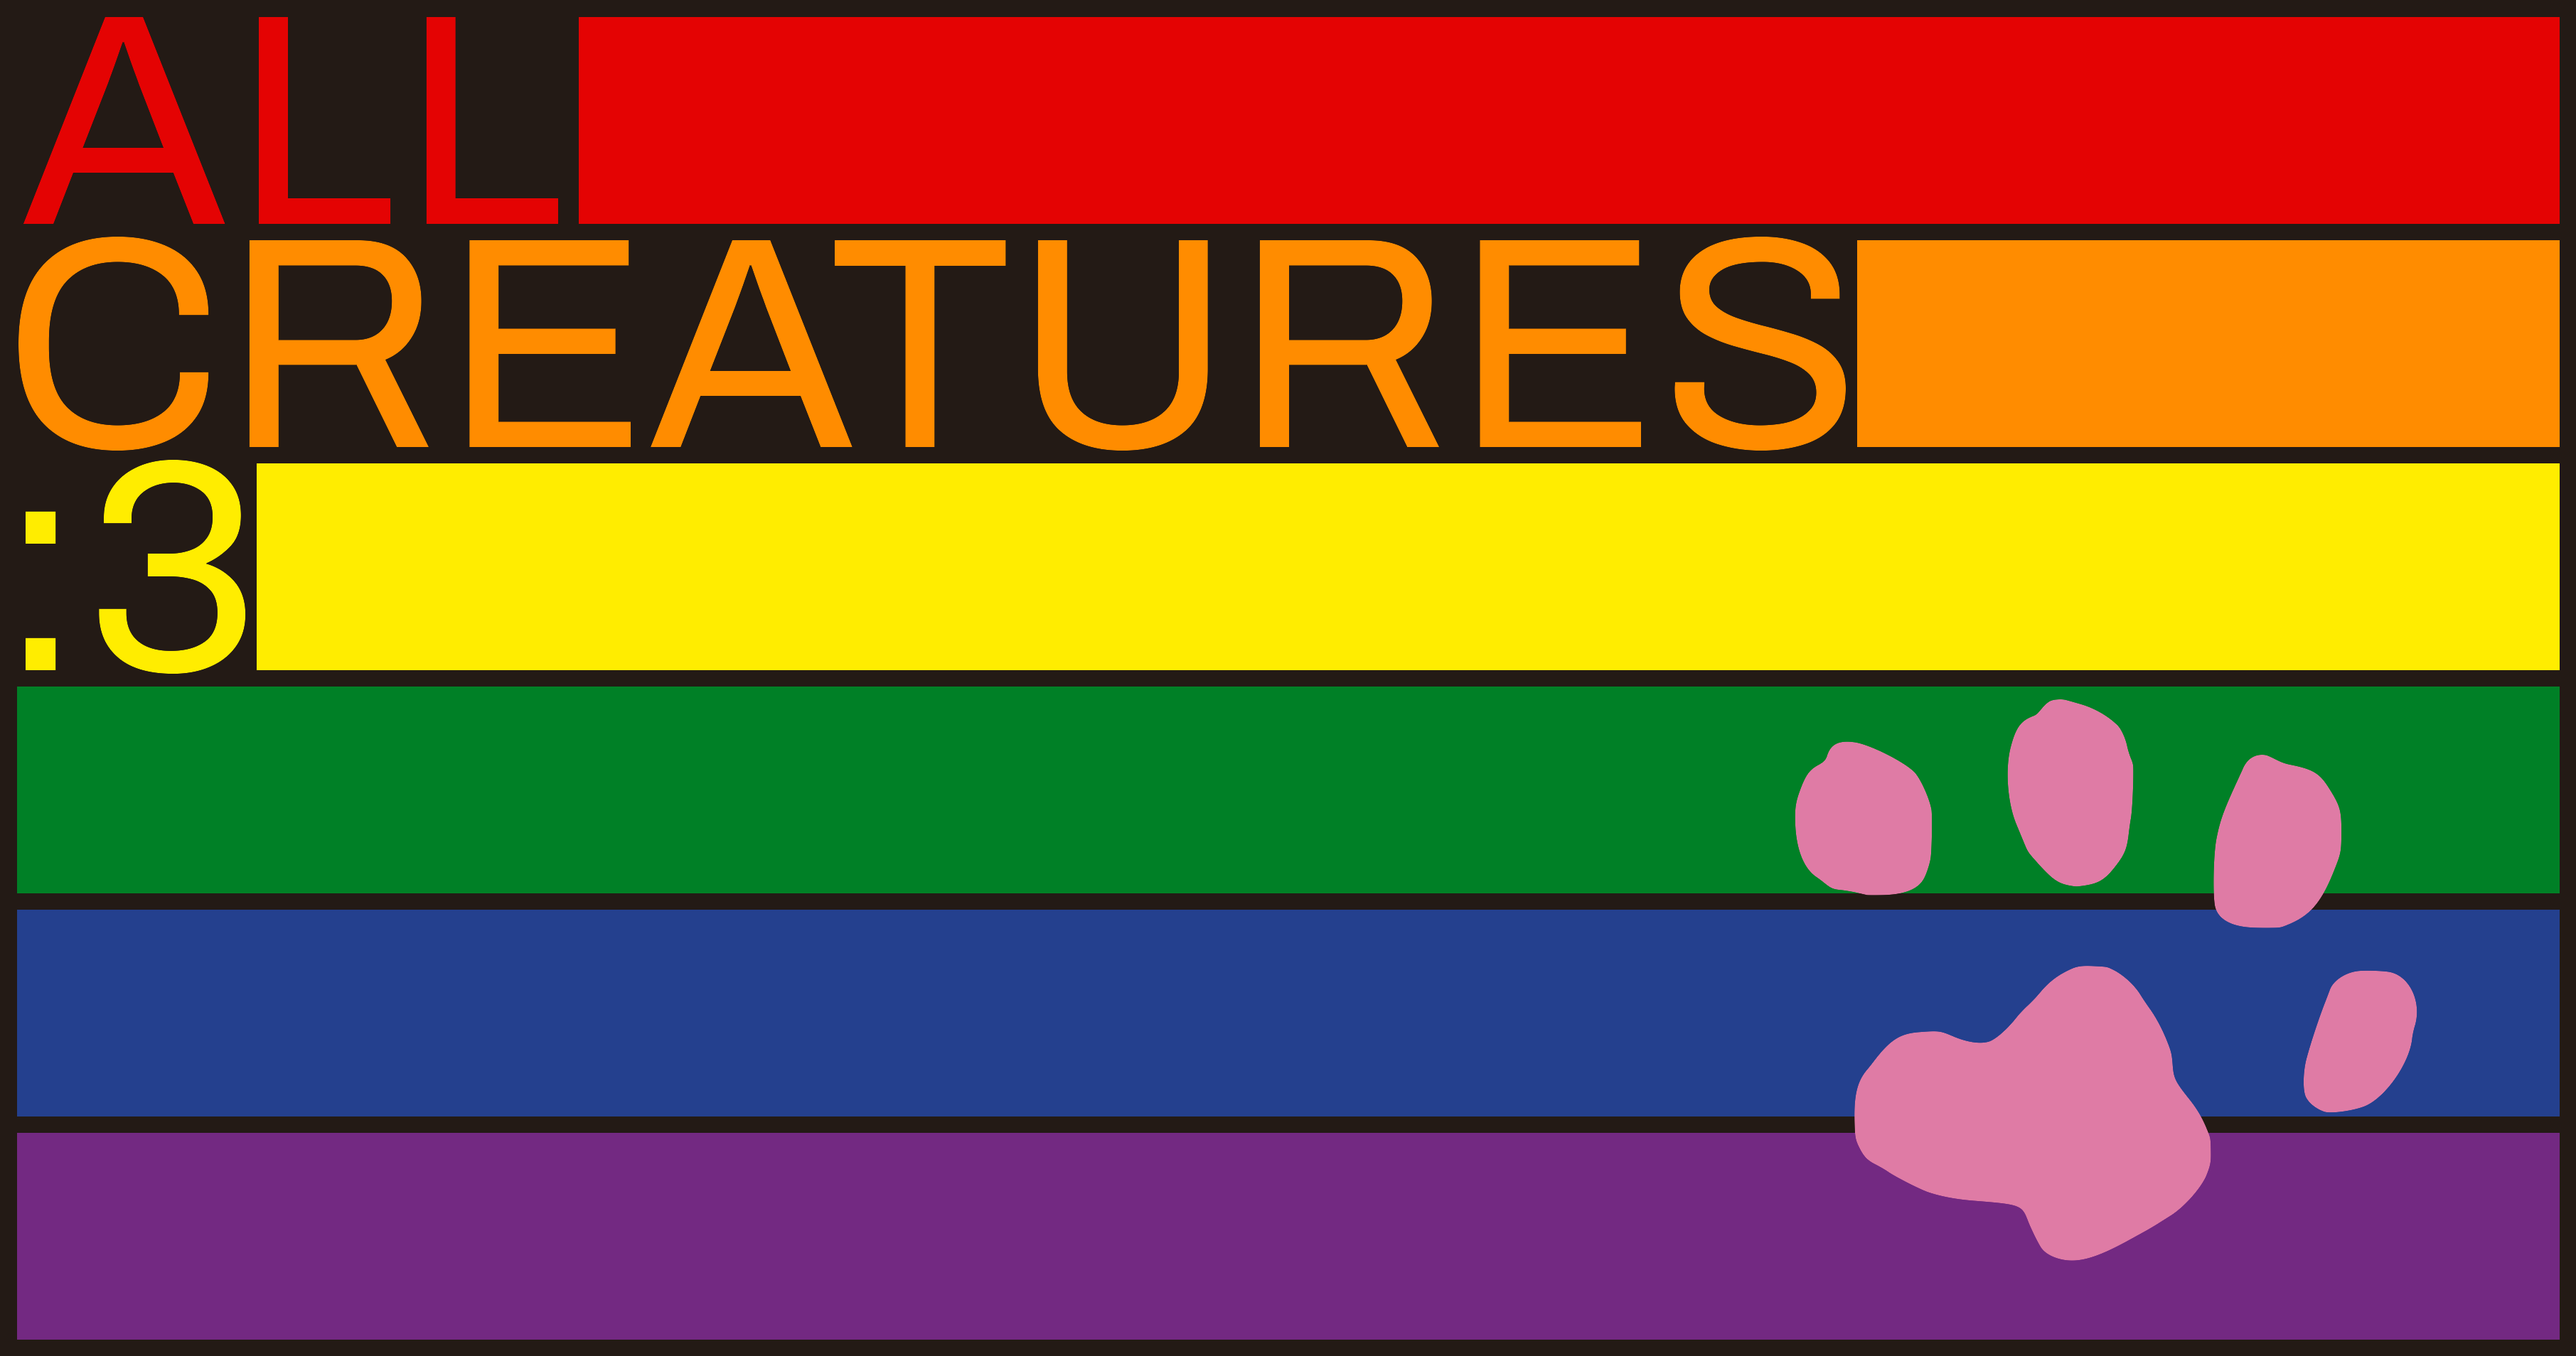
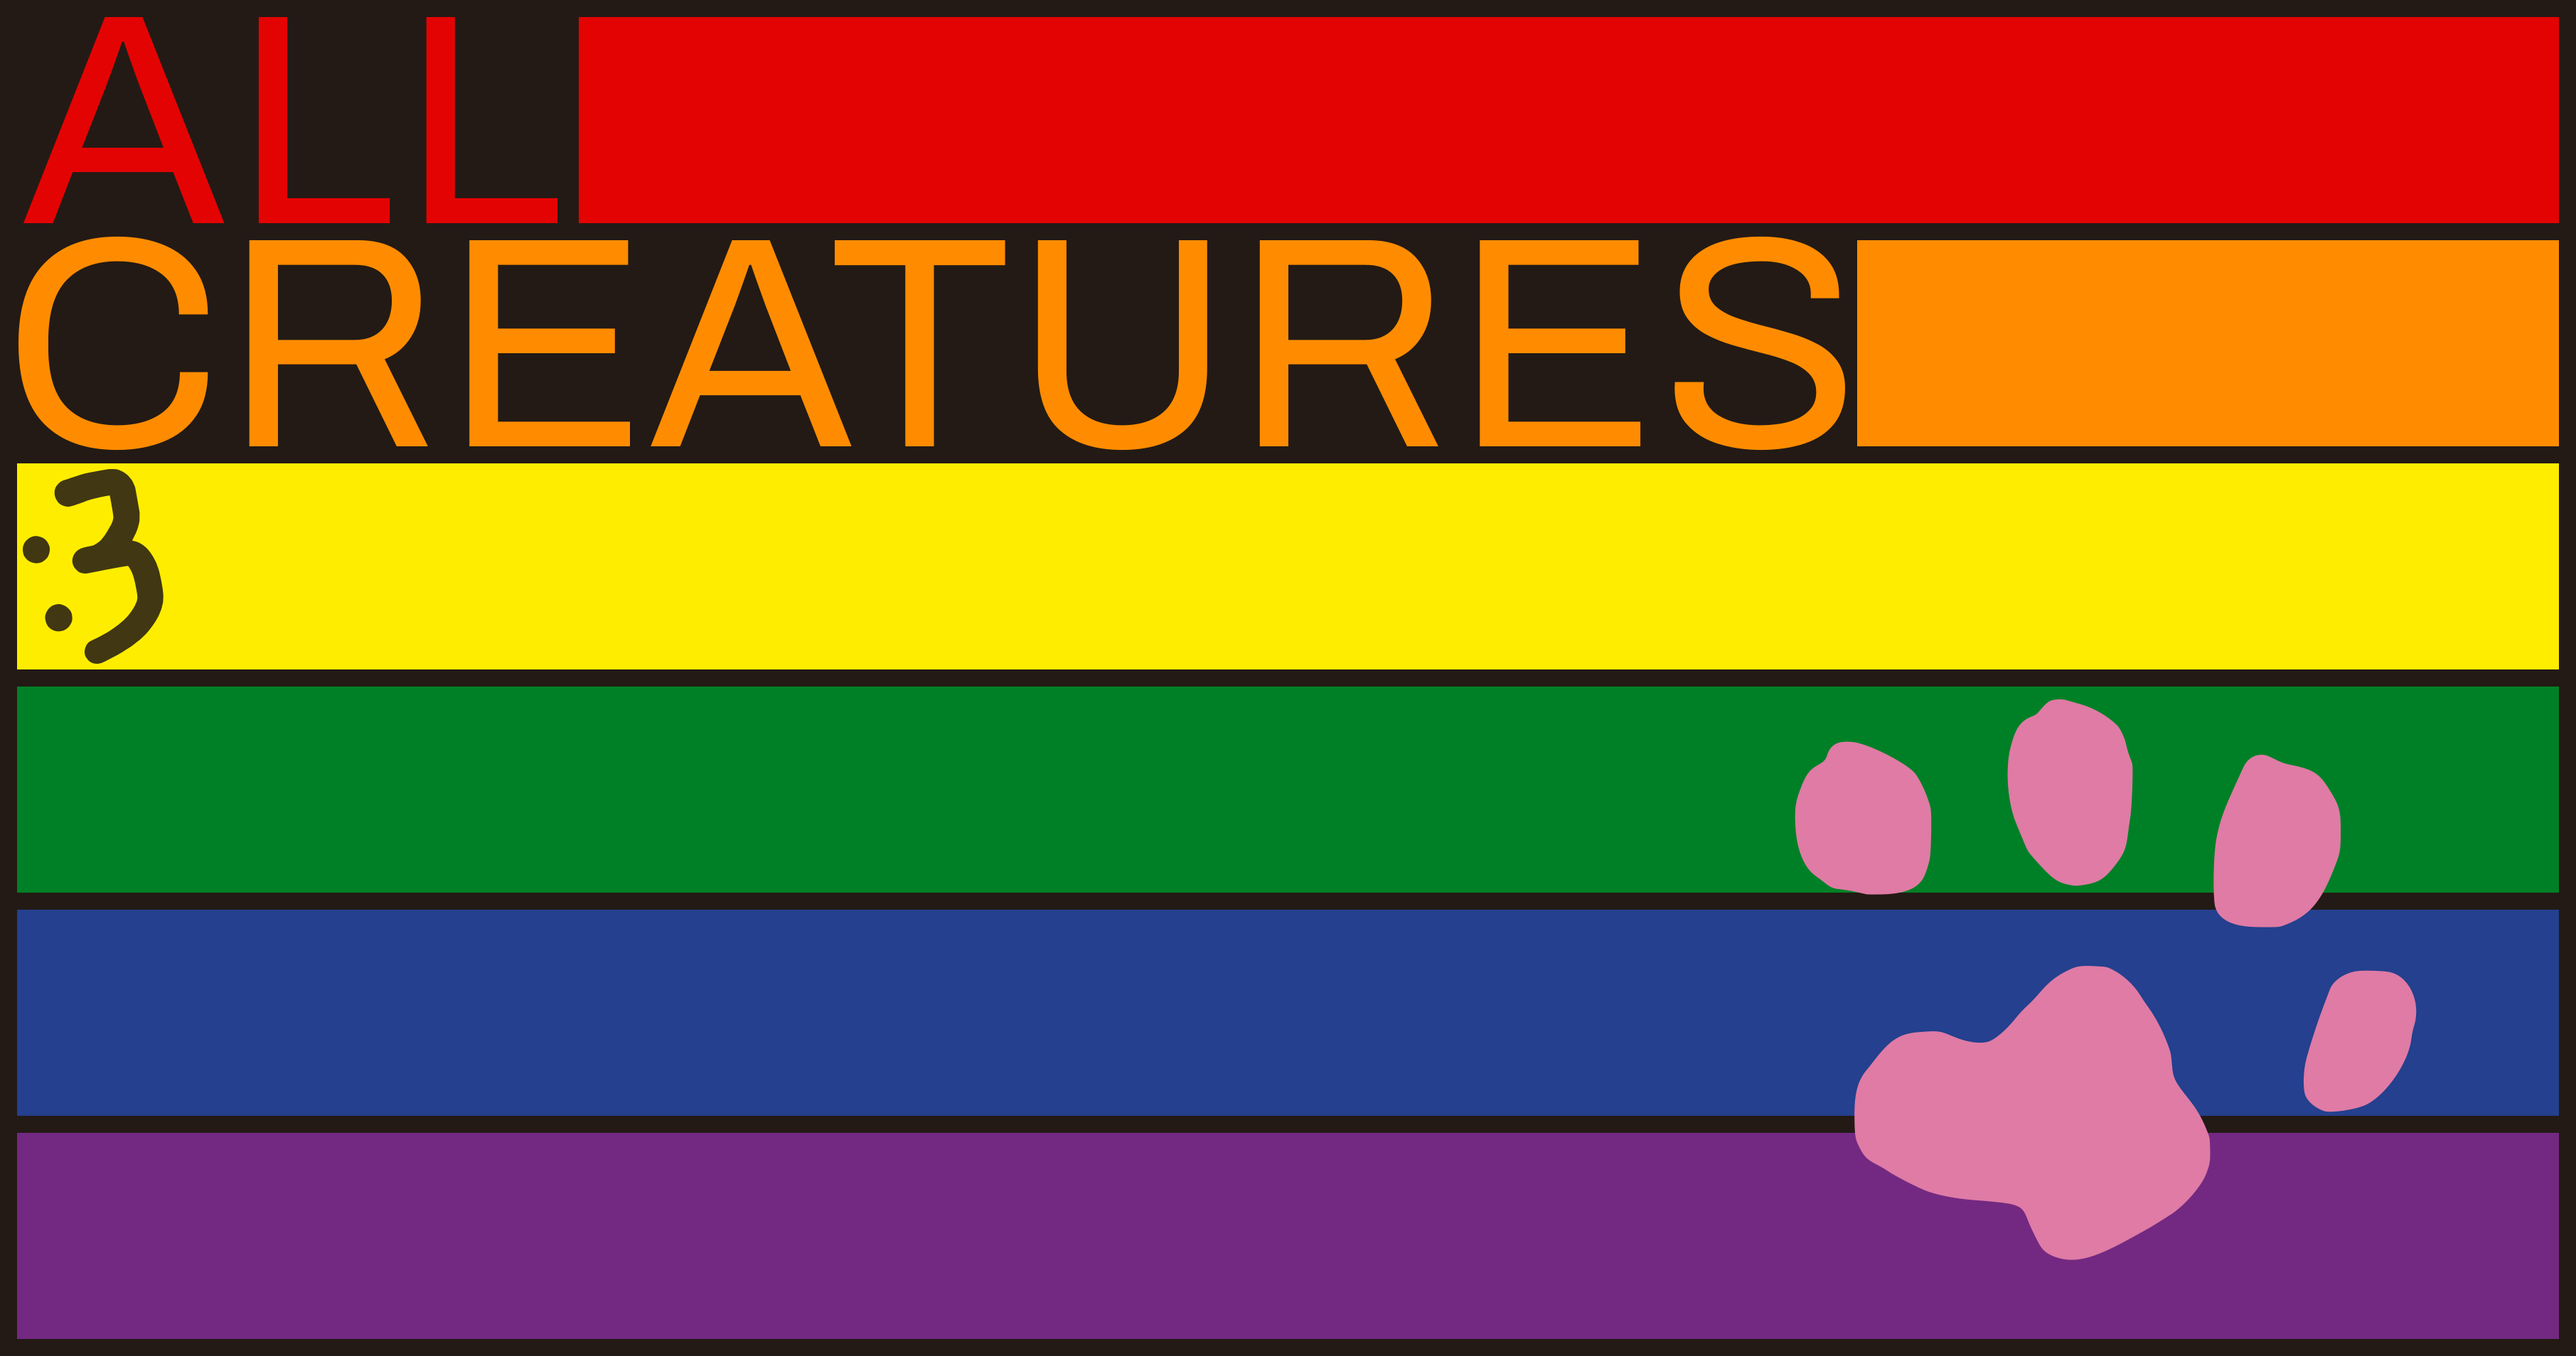
Addin :3 in tilted

Changed region(s): [[0.0, 0.3401, 0.1248, 0.4948]]

diff --git a/make_flag_svg.py b/make_flag_svg.py
@@ -6,14 +6,17 @@ and idealised to a regular grid. Text is Archivo Regular, converted to outlines.
 usage: python3 make_flag_svg.py <Archivo-Regular.ttf> <out_dir>
 needs: fonttools, uharfbuzz
 """
+import math
 import os
 import re
 import sys
 
 import uharfbuzz as hb
+from fontTools.misc.transform import Transform
 from fontTools.pens.boundsPen import BoundsPen
 from fontTools.pens.svgPathPen import SVGPathPen
 from fontTools.pens.transformPen import TransformPen
+from fontTools.svgLib.path import parse_path
 from fontTools.ttLib import TTFont
 
 FONT, OUT_DIR = sys.argv[1], sys.argv[2]
@@ -43,7 +46,7 @@ PRIDE_COLORS = {
     "blue":   "#24408e",
     "pink":   "#732982",
 }
-PALETTES = {"": COLORS, "-pride": PRIDE_COLORS}
+PALETTES = {"-pride": PRIDE_COLORS}
 ROW_COLORS = ["red", "orange", "yellow", "green", "blue", "pink"]
 
 # placement measured on the original flag: ink left, ink right, block start
@@ -55,14 +58,21 @@ MEASURED = {
 DEFAULT_LEFT = 12
 DEFAULT_TRACKING = 5.1  # font units, as fitted for CREATURES
 DEFAULT_BLOCK_GAP = 17
+# text drawn in dark over a full stripe instead of before a block, with its rotation in degrees
+# ("@file.svg" = hand-drawn shape traced by trace_colon3.py, thickened to the font's stem width)
+TILTED = {"@colon3-fat.svg": -10}
+TILT_PAD = 8            # keep the tilted text this far inside the stripe
+TILT_OPACITY = 0.86     # 14% transparent
+PATH_NTOS = lambda v: f"{v:.1f}".rstrip("0").rstrip(".")
+MATRIX_NTOS = lambda v: f"{v:.5f}".rstrip("0").rstrip(".")
 
 # variant name -> text per row (rows without text are full stripes)
 VARIANTS = {
     "all-creatures-welcome":   {0: "ALL", 1: "CREATURES", 2: "WELCOME"},
     "creatures":               {1: "CREATURES"},
     "creatures-3":             {1: "CREATURES :3"},
-    "creatures-3-yellow":      {1: "CREATURES", 2: ":3"},
-    "all-creatures-3":         {0: "ALL", 1: "CREATURES", 2: ":3"},
+    "creatures-3-yellow":      {1: "CREATURES", 2: "@colon3-fat.svg"},
+    "all-creatures-3":         {0: "ALL", 1: "CREATURES", 2: "@colon3-fat.svg"},
 }
 
 tt = TTFont(FONT)
@@ -85,6 +95,9 @@ def bounds(name):
     return bp.bounds
 
 
+STEM = (lambda b: (b[2] - b[0]) * scale)(bounds("I"))  # vertical stem width in flag units
+
+
 def ink_extent(run, tracking):
     x, first_l, last_r = 0, None, None
     for name, adv in run:
@@ -96,8 +109,8 @@ def ink_extent(run, tracking):
     return first_l, last_r
 
 
-def text_row(text):
-    """Return (path data, block start x) for a text row placed at baseline 0."""
+def layout(text):
+    """Return ([(glyph, x)], block start x) for a text row: glyph origins in flag units, baseline 0."""
     run = shape(text)
     if text in MEASURED:
         left, right, block_x = MEASURED[text]
@@ -110,12 +123,63 @@ def text_row(text):
         first_l, last_r = ink_extent(run, tracking)
         block_x = round(left + (last_r - first_l) * scale + DEFAULT_BLOCK_GAP)
 
-    pen = SVGPathPen(glyphs, ntos=lambda v: f"{v:.1f}".rstrip("0").rstrip("."))
-    x = -first_l
+    placed, x = [], -first_l
     for name, adv in run:
-        glyphs[name].draw(TransformPen(pen, (scale, 0, 0, -scale, left + x * scale, 0)))
+        placed.append((name, left + x * scale))
         x += adv + tracking
+    return placed, block_x
+
+
+def draw(placed, pen, matrix=Transform()):
+    for name, x in placed:
+        glyphs[name].draw(TransformPen(pen, matrix.transform((scale, 0, 0, -scale, x, 0))))
+
+
+def text_row(text):
+    """Return (path data, block start x) for a text row placed at baseline 0."""
+    placed, block_x = layout(text)
+    pen = SVGPathPen(glyphs, ntos=PATH_NTOS)
+    draw(placed, pen)
     return pen.getCommands(), block_x
+
+
+def tilted_row(spec, angle):
+    """Return (path data, matrix, stroke width) for text or a drawing ("@file.svg") over a full
+    stripe, rotated by angle degrees, scaled to fit inside the stripe with TILT_PAD around it,
+    left-aligned. Baseline 0. The stroke width (in path units) thickens drawn lines."""
+    if spec.startswith("@"):
+        src = open(os.path.join(OUT_DIR, spec[1:])).read()
+        d = re.search(r' d="([^"]+)"', src).group(1)
+        line = float(re.search(r'data-stroke-width="([^"]+)"', src).group(1))
+        vh = float(re.search(r'viewBox="([^"]+)"', src).group(1).split()[3])
+        ratio = STEM / STRIPE    # stem width relative to cap height, as in the font
+        extra = (ratio * vh - line) / (1 - ratio)
+        extra = extra if extra > 0.01 * vh else 0   # already fat enough (e.g. colon3-fat.svg)
+
+        def paint(pen, m):
+            parse_path(d, TransformPen(pen, m))
+    else:
+        placed, _ = layout(spec)
+        pen = SVGPathPen(glyphs, ntos=PATH_NTOS)
+        draw(placed, pen)
+        d, extra = pen.getCommands(), 0
+
+        def paint(pen, m):
+            draw(placed, pen, m)
+
+    def ink(m):
+        bp = BoundsPen(glyphs)
+        paint(bp, m)
+        return bp.bounds
+
+    x0, y0, x1, y1 = ink(Transform())
+    cx, cy = (x0 + x1) / 2, (y0 + y1) / 2
+    rot = Transform().rotate(math.radians(angle)).translate(-cx, -cy)
+    rx0, ry0, rx1, ry1 = ink(rot)
+    rx0, ry0, ry1 = rx0 - extra / 2, ry0 - extra / 2, ry1 + extra / 2
+    k = (STRIPE - 2 * TILT_PAD) / (ry1 - ry0)
+    m = Transform().translate(TILT_PAD - k * rx0, -STRIPE / 2 - k * (ry0 + ry1) / 2).scale(k).transform(rot)
+    return d, m, extra
 
 
 def build(rows, colors, overlay=""):
@@ -130,7 +194,15 @@ def build(rows, colors, overlay=""):
     ]
     for i, color in enumerate(ROW_COLORS):
         top = i * (STRIPE + GAP)
-        if i in rows:
+        if rows.get(i) in TILTED:
+            d, m, extra = tilted_row(rows[i], TILTED[rows[i]])
+            m = Transform().translate(0, top + STRIPE).transform(m)
+            stroke = (f' fill-rule="evenodd" stroke="{colors["dark"]}" stroke-width="{extra:.2f}"'
+                      ' stroke-linejoin="round"' if extra else "")
+            parts.append(f'  <rect class="{color}" y="{top}" width="{W}" height="{STRIPE}"/>')
+            parts.append(f'  <g opacity="{TILT_OPACITY}"><path class="dark"{stroke} '
+                         f'transform="matrix({" ".join(MATRIX_NTOS(v) for v in m)})" d="{d}"/></g>')
+        elif i in rows:
             d, block_x = text_row(rows[i])
             parts.append(f'  <rect class="{color}" x="{block_x}" y="{top}" width="{W - block_x}" height="{STRIPE}"/>')
             parts.append(f'  <path class="{color}" transform="translate(0 {top + STRIPE})" d="{d}"/>')
